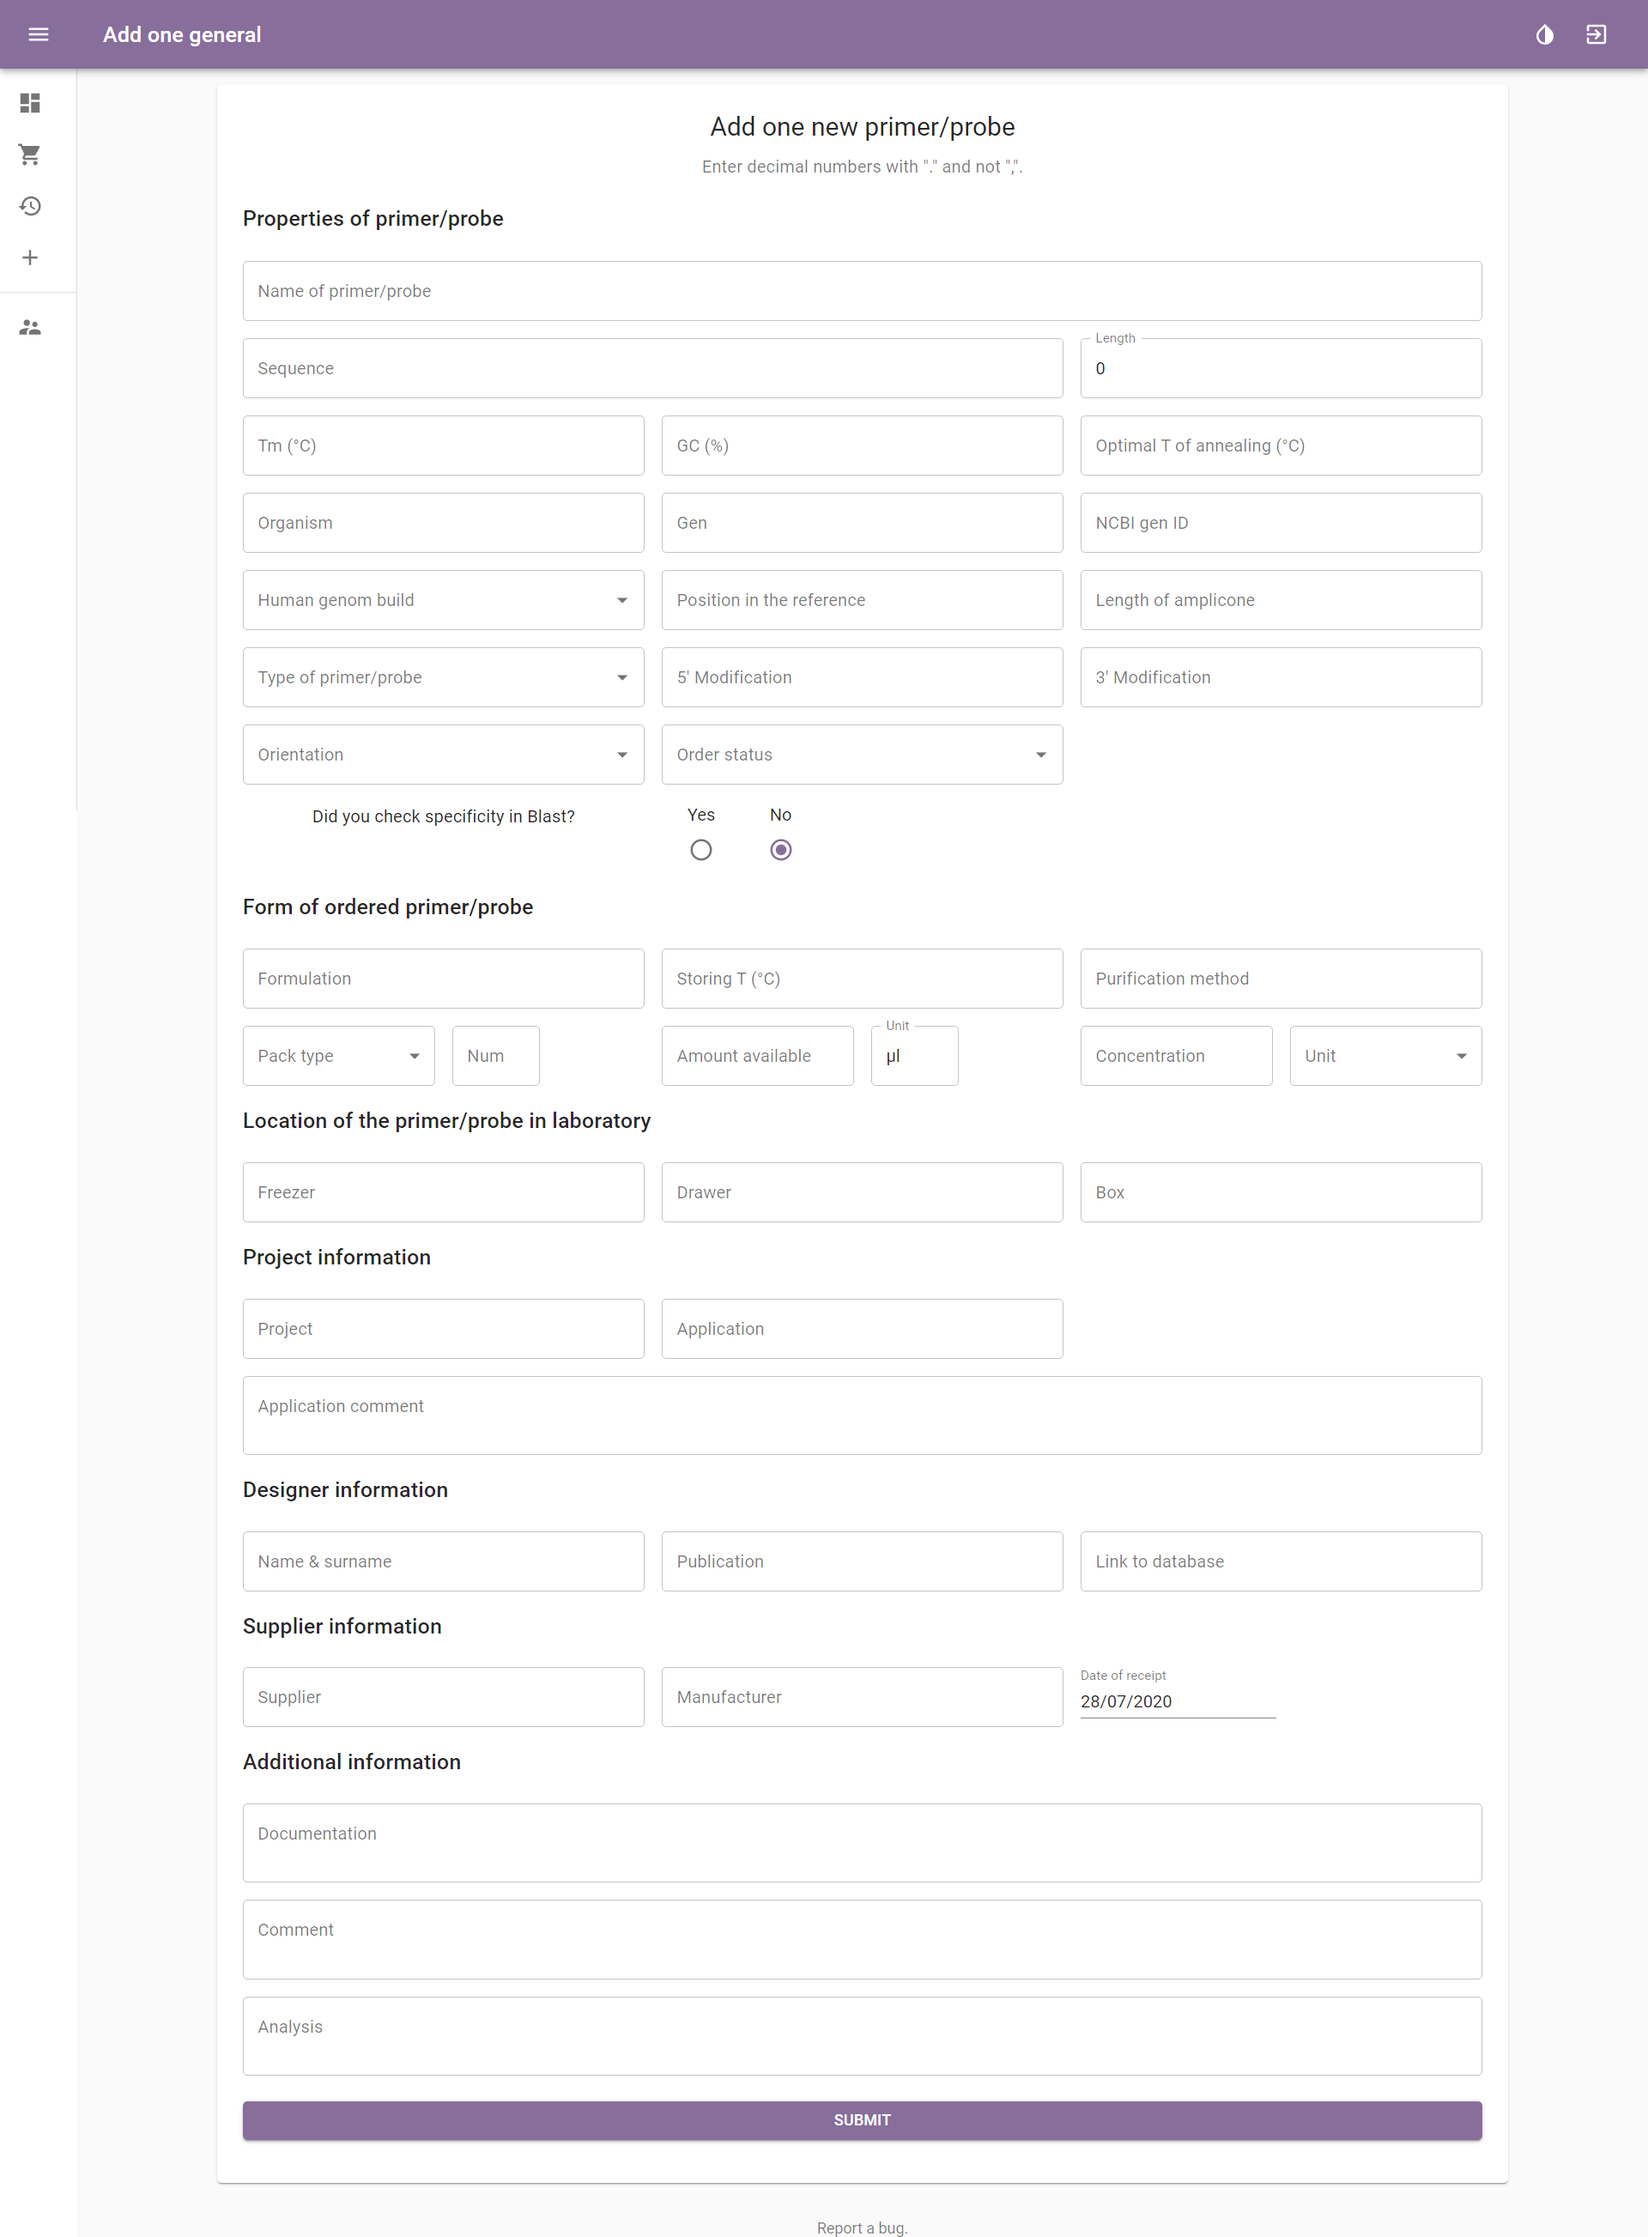
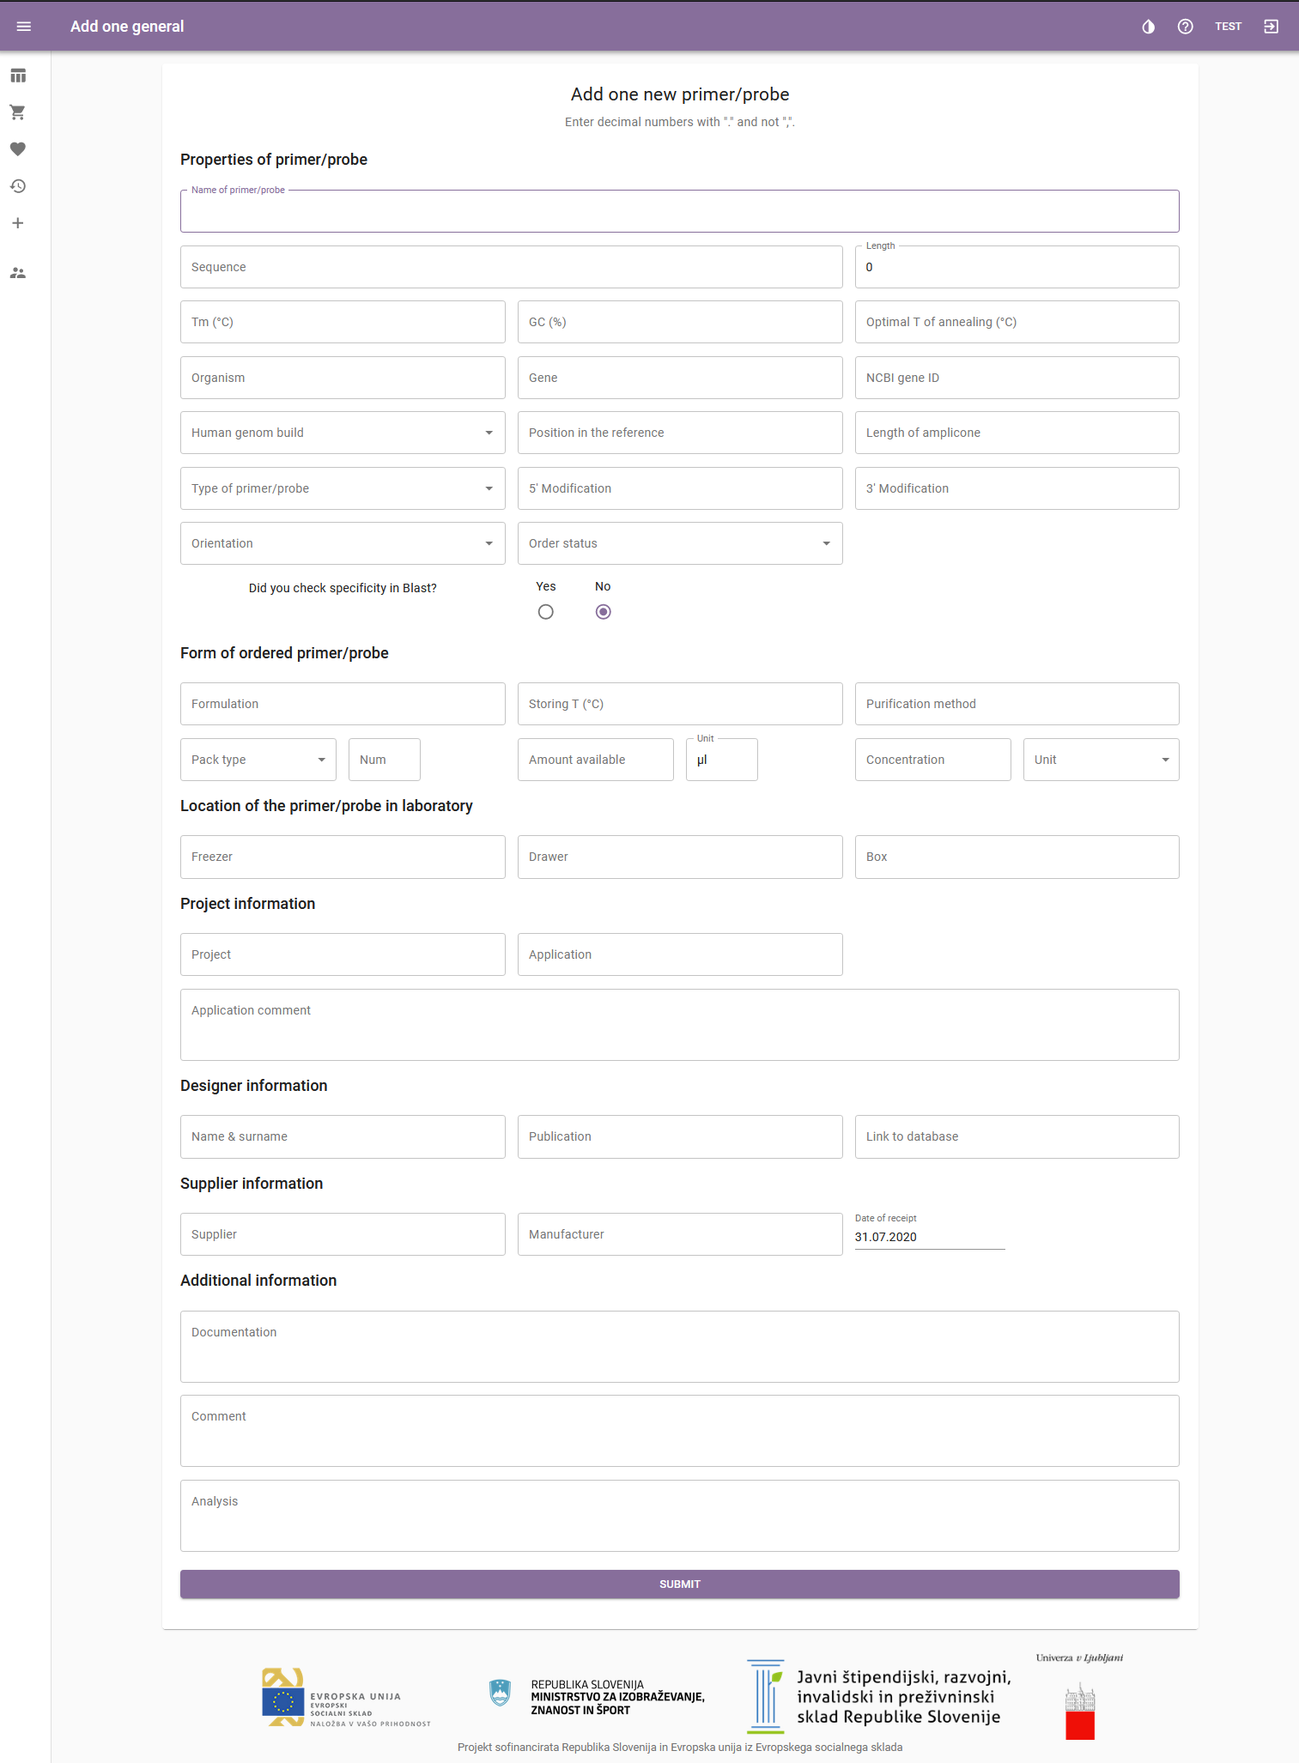
posodobila slike za dodajanje primerjev

diff --git a/docs/index.md b/docs/index.md
@@ -92,7 +92,7 @@ Icons on the left show (in a descending order):
 
 ![menu2](./menu2.png)
 
-In the top right corner there’s a button for changing the theme, the link to specifications (“?” icon) and the user’s username next to the logout button.
+In the top right corner there’s a button for changing the theme, the link to specifications (“?” icon) which can be exported and printed as a .pdf file, and the user’s username next to the logout button.
 
 ![overview2](./overview2.png)
 
@@ -198,11 +198,11 @@ When adding a new primer in this way, the user has to put in the obligatory data
 |  | Comment |
 |  | Analysis |
 
-![addoneprimernew](./addoneprimernew.png)
+![addoneprimernew](./addonenew.png)
 
 When putting in data for a pair of primers, common features are put in first and then specific features for each primer (shown in the picture).
 
-![addtwoprimernew](./addtwoprimernew.png)
+![addtwoprimernew](./addtwo.png)
 
 When adding a TaqProbe, extra options for putting in data open up:
 
@@ -302,7 +302,7 @@ To add a new user to the list, click on the Add (+) sign in the top right corner
 
 ![users1](./users1.png)
 
-When a new user is added, Full name, Username, Role, Work title and Password need to be defined.
+When a new user is added, Full name, Username, Role, Work title and Password need to be defined by the admin.
 
 ![users2](./users2.png)
 
